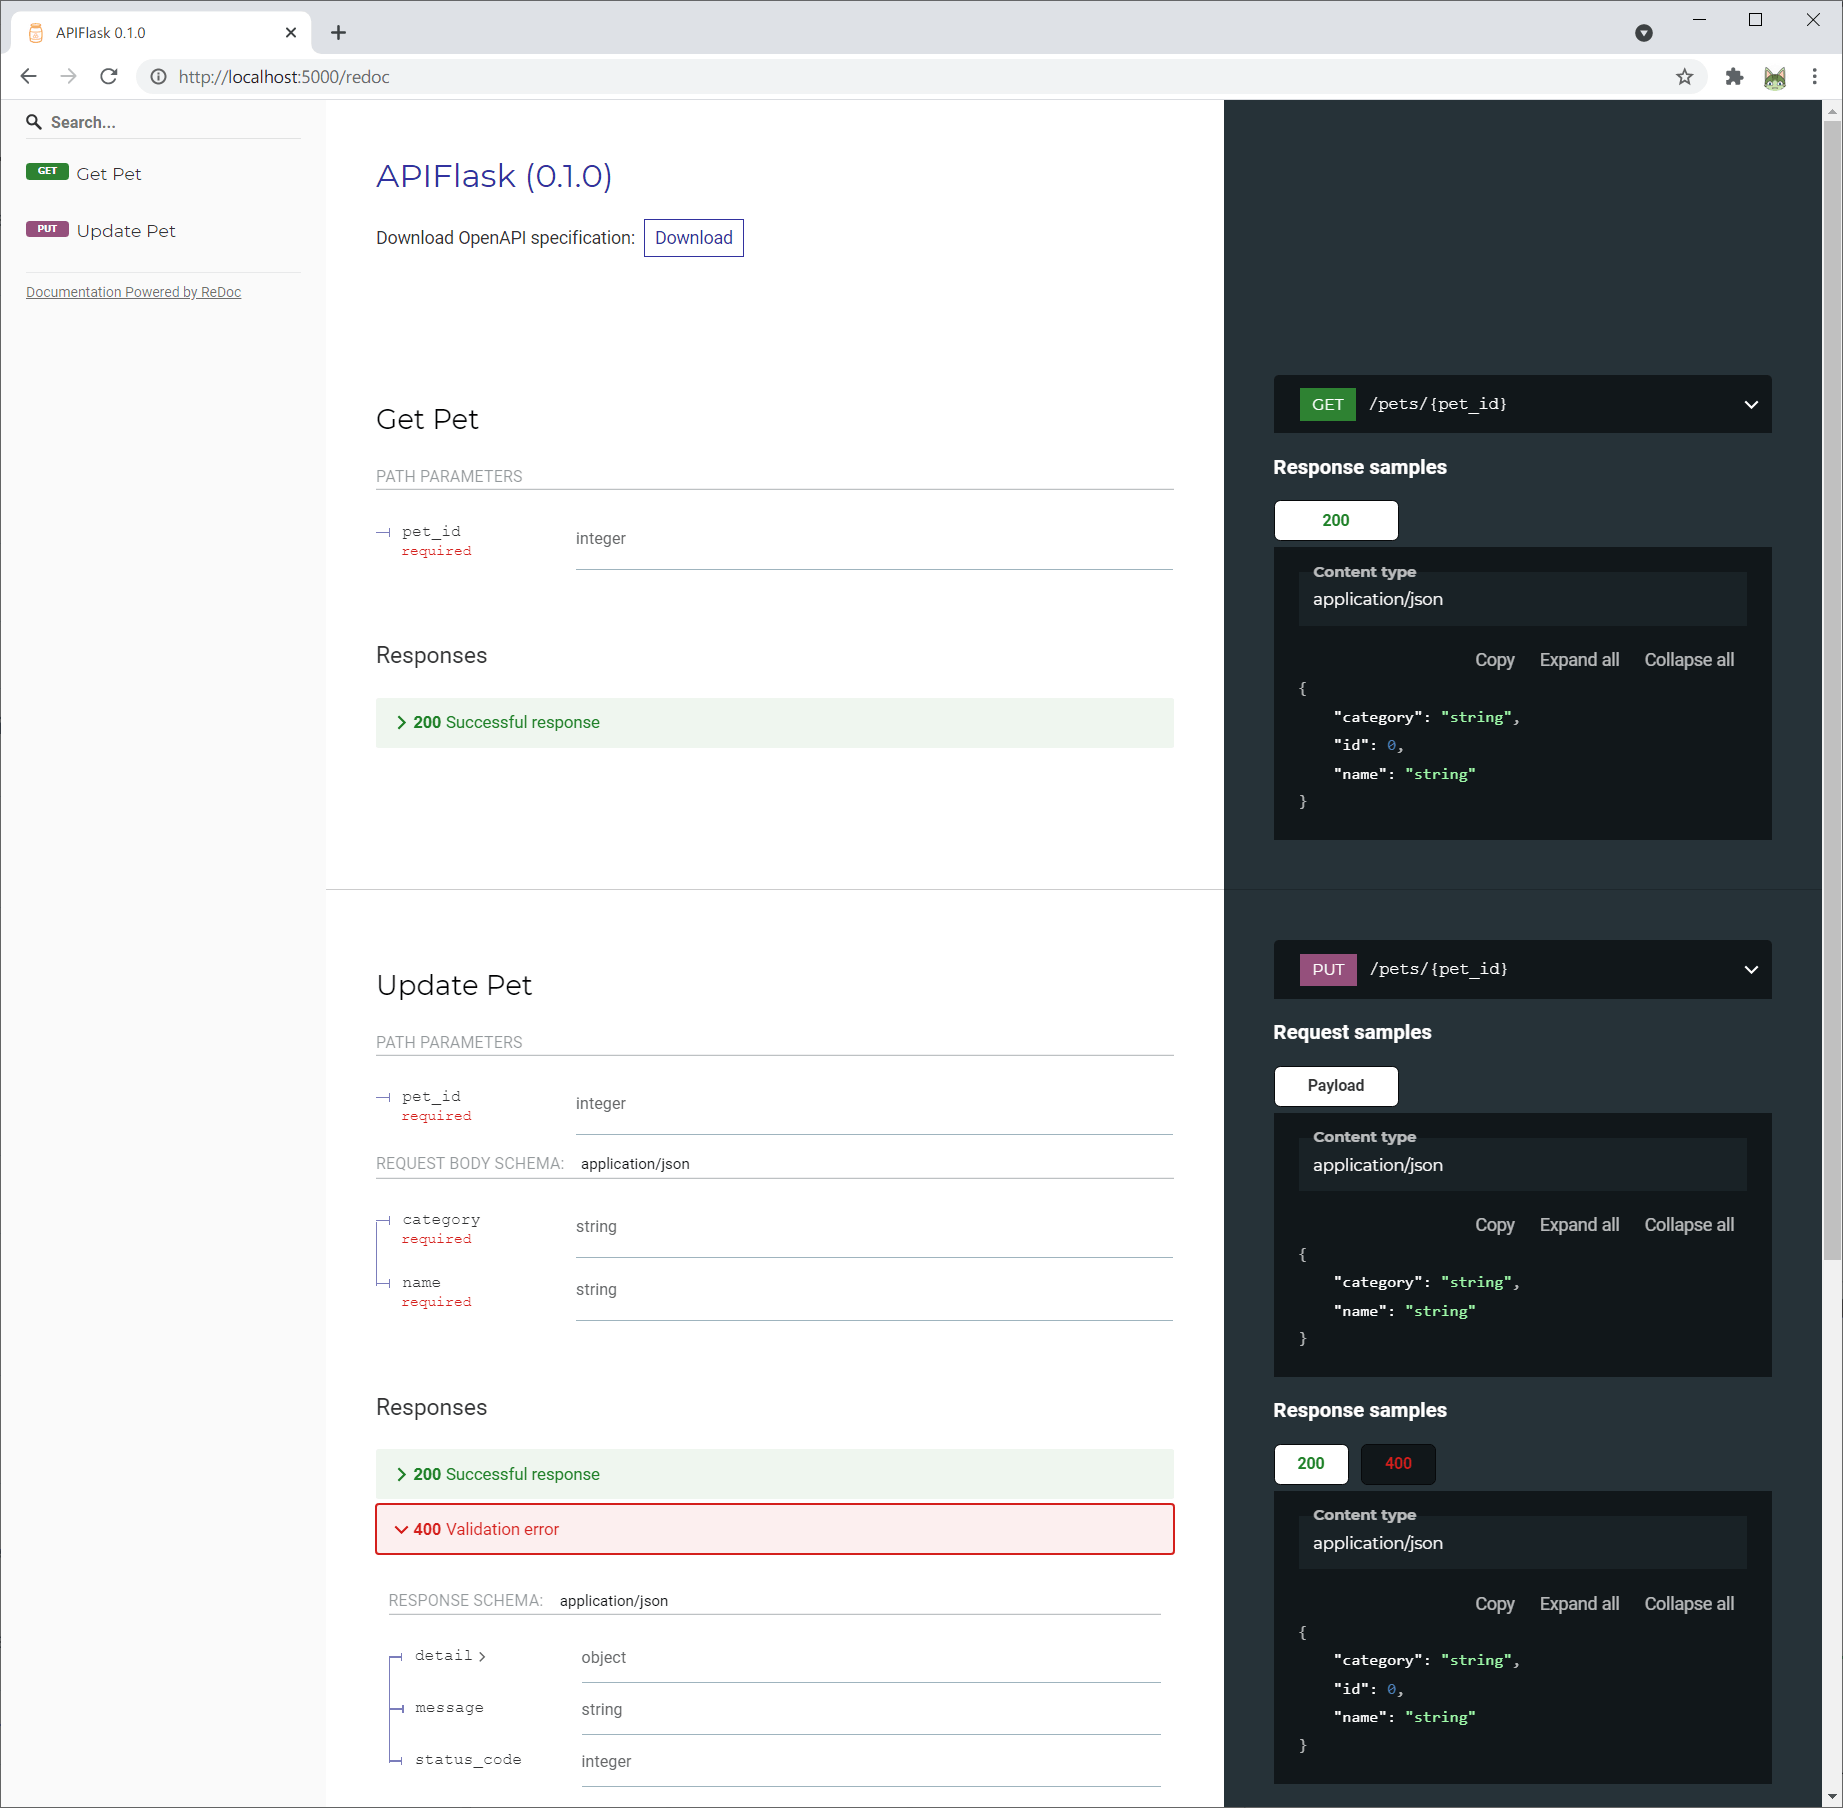
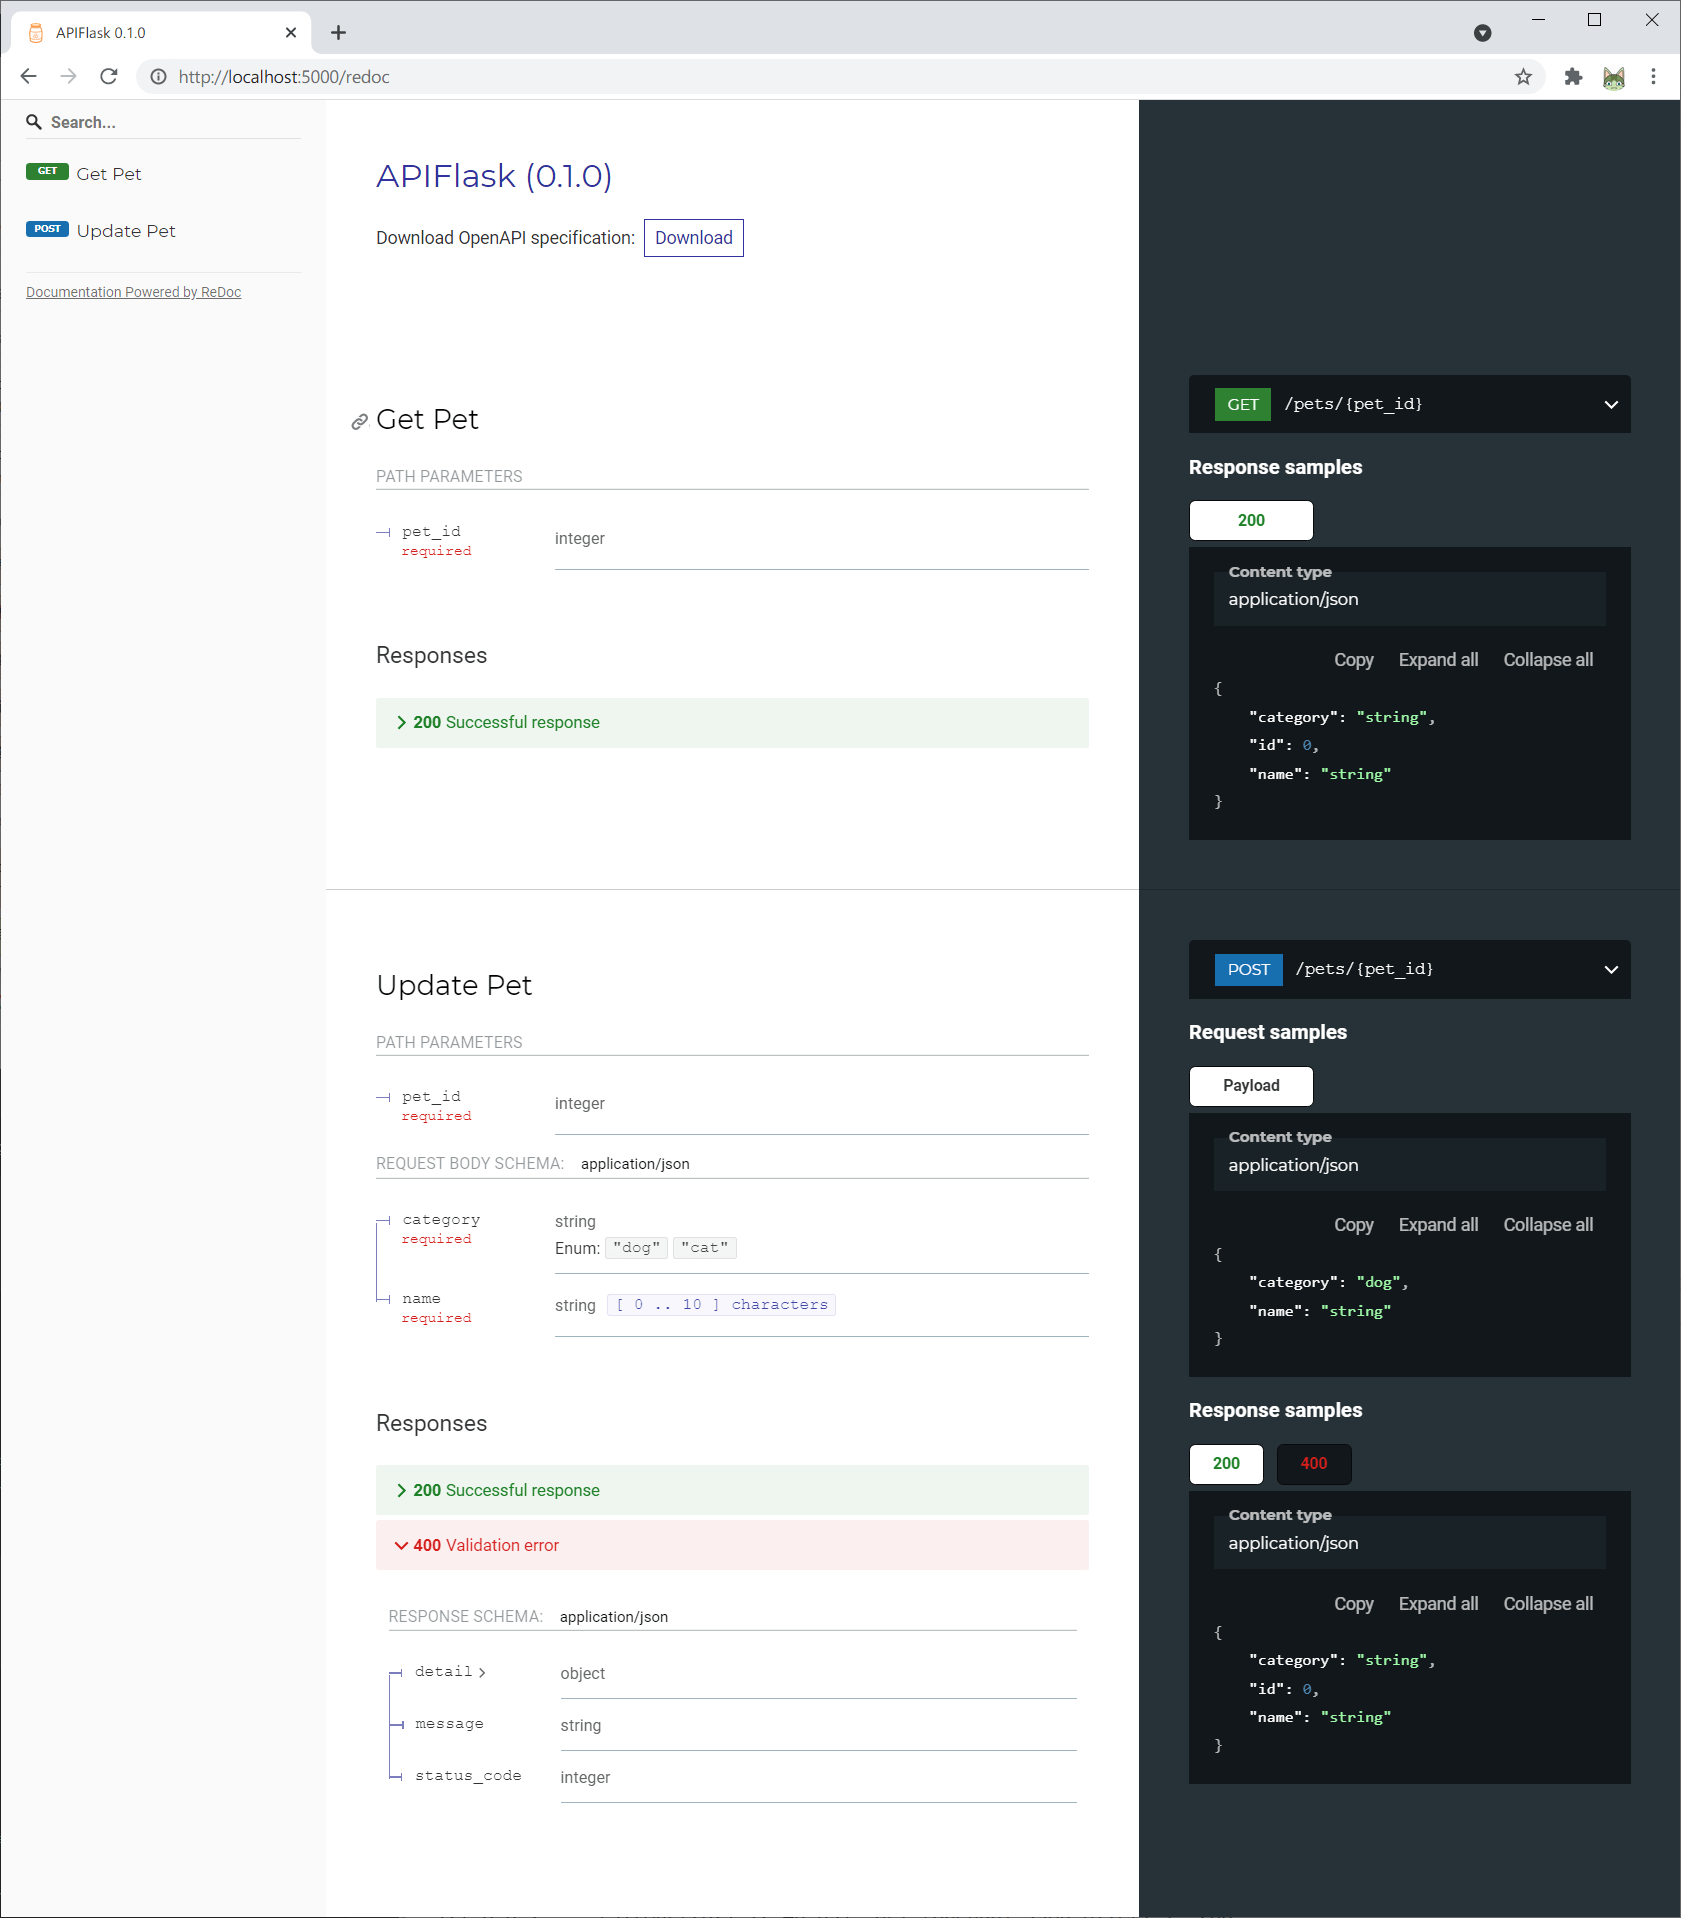
Update example application to use separate schema for input and output

diff --git a/examples/app.py b/examples/app.py
@@ -1,5 +1,6 @@
-from apiflask import APIFlask, input, output, Schema, api_abort
+from apiflask import APIFlask, Schema, input, output, abort_json
 from apiflask.fields import Integer, String
+from apiflask.validators import Length, OneOf
 
 app = APIFlask(__name__)
 
@@ -13,70 +14,129 @@ pets = [
         'id': 1,
         'name': 'Coco',
         'category': 'dog'
-    },
-    {
-        'id': 2,
-        'name': 'Flash',
-        'category': 'cat'
     }
 ]
 
 
-class PetSchema(Schema):
-    id = Integer(required=True, dump_only=True)
-    name = String(required=True)
-    category = String(required=True)
+class PetInSchema(Schema):
+    name = String(required=True, validators=Length(0, 10))
+    category = String(required=True, validators=OneOf(['dog', 'cat']))
+
+
+class PetOutSchema(Schema):
+    id = Integer()
+    name = String()
+    category = String()
 
 
 @app.get('/pets/<int:pet_id>')
-@output(PetSchema)
+@output(PetOutSchema)
 def get_pet(pet_id):
-    if pet_id > len(pets) - 1:
-        api_abort(404)
+    if pet_id > len(pets):
+        abort_json(404)
     return pets[pet_id]
 
 
-@app.get('/pets')
-@output(PetSchema(many=True))
-def get_pets():
-    return pets
-
-
-@app.post('/pets')
-@input(PetSchema)
-@output(PetSchema, 201)
-def create_pet(pet):
-    pet['id'] = len(pets) + 1
-    pets.append(pet)
-    return pet
-
-
-@app.put('/pets/<int:pet_id>')
-@input(PetSchema)
-@output(PetSchema)
+@app.post('/pets/<int:pet_id>')
+@input(PetInSchema)
+@output(PetOutSchema)
 def update_pet(pet_id, pet):
     if pet_id > len(pets):
-        api_abort(404)
+        abort_json(404)
     pet['id'] = pet_id
     pets[pet_id] = pet
     return pet
 
 
-@app.patch('/pets/<int:pet_id>')
-@input(PetSchema(partial=True))
-@output(PetSchema)
-def partial_update_pet(pet_id, pet):
-    if pet_id > len(pets):
-        api_abort(404)
-    for attr, value in pet:
-        pets[pet_id][attr] = value
-    return pets[pet_id]
 
 
-@app.delete('/pets/<int:pet_id>')
-@output({}, 204)
-def delete_pet(pet_id):
-    if pet_id > len(pets):
-        api_abort(404)
-    pets.pop(pet_id)
-    return ''
+
+# from apiflask import APIFlask, input, output, Schema, abort_json
+# from apiflask.fields import Integer, String
+# from apiflask.validators import Length, OneOf
+
+# app = APIFlask(__name__)
+
+# pets = [
+#     {
+#         'id': 0,
+#         'name': 'Kitty',
+#         'category': 'cat'
+#     },
+#     {
+#         'id': 1,
+#         'name': 'Coco',
+#         'category': 'dog'
+#     },
+#     {
+#         'id': 2,
+#         'name': 'Flash',
+#         'category': 'cat'
+#     }
+# ]
+
+
+# class PetInSchema(Schema):
+#     name = String(required=True, validate=Length(0, 10))
+#     category = String(required=True, validate=OneOf(['dog', 'cat']))
+
+
+# class PetOutSchema(Schema):
+#     id = Integer()
+#     name = String()
+#     category = String()
+
+
+# @app.get('/pets/<int:pet_id>')
+# @output(PetOutSchema)
+# def get_pet(pet_id):
+#     if pet_id > len(pets) - 1:
+#         abort_json(404)
+#     return pets[pet_id]
+
+
+# @app.get('/pets')
+# @output(PetOutSchema(many=True))
+# def get_pets():
+#     return pets
+
+
+# @app.post('/pets')
+# @input(PetInSchema)
+# @output(PetOutSchema, 201)
+# def create_pet(pet):
+#     pet['id'] = len(pets) + 1
+#     pets.append(pet)
+#     return pet
+
+
+# @app.put('/pets/<int:pet_id>')
+# @input(PetInSchema)
+# @output(PetOutSchema)
+# def update_pet(pet_id, pet):
+#     if pet_id > len(pets):
+#         abort_json(404)
+#     pet['id'] = pet_id
+#     pets[pet_id] = pet
+#     return pet
+
+
+# @app.patch('/pets/<int:pet_id>')
+# @input(PetInSchema(partial=True))
+# @output(PetOutSchema)
+# def partial_update_pet(pet_id, pet):
+#     if pet_id > len(pets):
+#         abort_json(404)
+#     for attr, value in pet:
+#         pets[pet_id][attr] = value
+#     return pets[pet_id]
+
+
+# @app.delete('/pets/<int:pet_id>')
+# # @output({}, 204)
+# @output({'id': String(default=3), 'name': String(required=True)})
+# def delete_pet(pet_id):
+#     if pet_id > len(pets):
+#         abort_json(404)
+#     pets.pop(pet_id)
+#     return ''

diff --git a/README.md b/README.md
@@ -9,15 +9,15 @@ APIFlask is a lightweight Python web API framework based on [Flask](https://gith
 
 With APIFlask, you will have:
 
-- More sugars for view function (`@app.get()`, `@app.post()`, `@input()`, `@output()`, `@doc()` and more)
-- Automatic request validation and serialization (with [Webargs](https://github.com/marshmallow-code/webargs))
-- Automatic response validation and deserialization (with [Marshmallow](https://github.com/marshmallow-code/marshmallow))
+- More sugars for view function (`@input()`, `@output()`, `@app.get()`, `@app.post()` and more)
+- Automatic request validation and deserialization (with [Webargs](https://github.com/marshmallow-code/webargs))
+- Automatic response formatting and serialization (with [Marshmallow](https://github.com/marshmallow-code/marshmallow))
 - Automatic [OpenAPI Specification](https://github.com/OAI/OpenAPI-Specification) (OAS, formerly Swagger Specification) document generation (with [APISpec](https://github.com/marshmallow-code/apispec))
 - Automatic interactive API documentation (with [Swagger UI](https://github.com/swagger-api/swagger-ui) and [Redoc](https://github.com/Redocly/redoc))
-- API Authorization support (with [Flask-HTTPAuth](https://github.com/migulgrinberg/flask-httpauth))
+- API authentication support (with [Flask-HTTPAuth](https://github.com/migulgrinberg/flask-httpauth))
 - Automatic JSON response for HTTP errors
 
-*Currently this project is in active development stage, bugs and break changes are expected. Welcome to leave any suggestions or feedbacks in [this issue](https://github.com/greyli/apiflask/issues/1) or just submit a pull request to improve it.*
+*Currently this project is in active development stage, bugs and break changes are expected. Welcome to leave any suggestions or feedbacks in [this issue](https://github.com/greyli/apiflask/issues/1) or just submit a pull request to improve it. Thank you!*
 
 ## Requirements
 
@@ -40,20 +40,21 @@ For Windows:
 
 ## Links
 
-- Website: https://apiflask.com
-- Documentation: https://apiflask.com
-- PyPI Releases: https://pypi.python.org/pypi/APIFlask
-- Change Log: https://apiflask.com/changelog
-- Source Code: https://github.com/greyli/apiflask
-- Issue Tracker: https://github.com/greyli/apiflask/issues
-- Discussion: https://github.com/greyli/apiflask/discussions
-- Twitter: https://twitter.com/apiflask
+- Website: <https://apiflask.com>
+- Documentation: <https://apiflask.com>
+- PyPI Releases: <https://pypi.python.org/pypi/APIFlask>
+- Change Log: <https://apiflask.com/changelog>
+- Source Code: <https://github.com/greyli/apiflask>
+- Issue Tracker: <https://github.com/greyli/apiflask/issues>
+- Discussion: <https://github.com/greyli/apiflask/discussions>
+- Twitter: <https://twitter.com/apiflask>
 
 ## Example
 
 ```python
-from apiflask import APIFlask, input, output, Schema, api_abort
+from apiflask import APIFlask, Schema, input, output, abort_json
 from apiflask.fields import Integer, String
+from apiflask.validators import Length, OneOf
 
 app = APIFlask(__name__)
 
@@ -71,17 +72,22 @@ pets = [
 ]
 
 
-class PetSchema(Schema):
-    id = Integer(required=True, dump_only=True)
-    name = String(required=True)
-    category = String(required=True)
+class PetInSchema(Schema):
+    name = String(required=True, validate=Length(0, 10))
+    category = String(required=True, validate=OneOf(['dog', 'cat']))
+
+
+class PetOutSchema(Schema):
+    id = Integer()
+    name = String()
+    category = String()
 
 
 @app.get('/pets/<int:pet_id>')
 @output(PetSchema)
 def get_pet(pet_id):
     if pet_id > len(pets):
-        api_abort(404)
+        abort_json(404)
     return pets[pet_id]
 
 
@@ -90,7 +96,7 @@ def get_pet(pet_id):
 @output(PetSchema)
 def update_pet(pet_id, pet):
     if pet_id > len(pets):
-        api_abort(404)
+        abort_json(404)
     pet['id'] = pet_id
     pets[pet_id] = pet
     return pet
